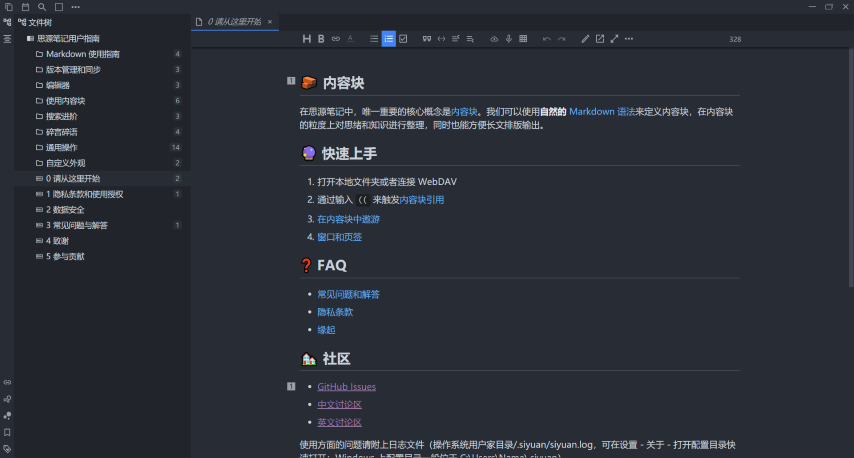
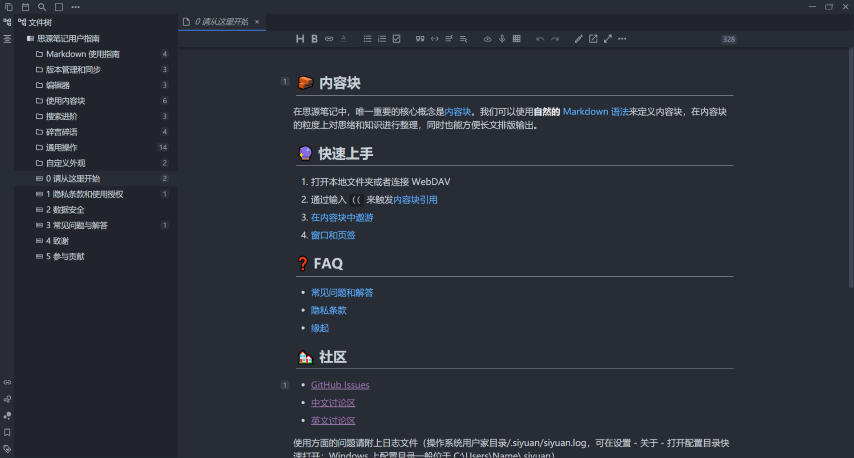
update preview and readme

diff --git a/README.md b/README.md
@@ -6,9 +6,18 @@
   - VS Code的One Dark Pro主题
   - Typora的OneDark主题
   - Mark Text的One Dark主题
-- 更改了
-  - 整体配色
-  - 
+- 所做的工作
+  - 整体配色更改
+  - 样式更改
+    - 大纲
+    - 表格
+    - 复选框
+    - 代码块
+    - 引用块
+    - 引用计数块
+  - 其他
+    - 公式字号调整
+    - 标题块右移
 
 ## 历史版本
 
